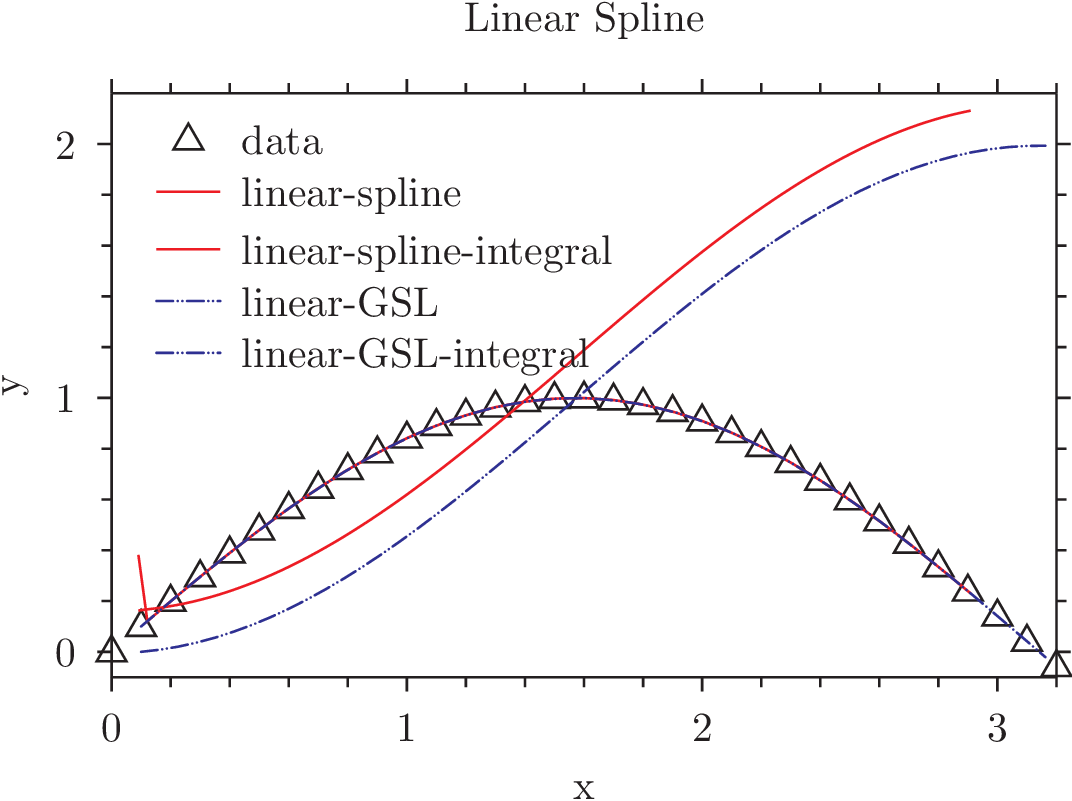
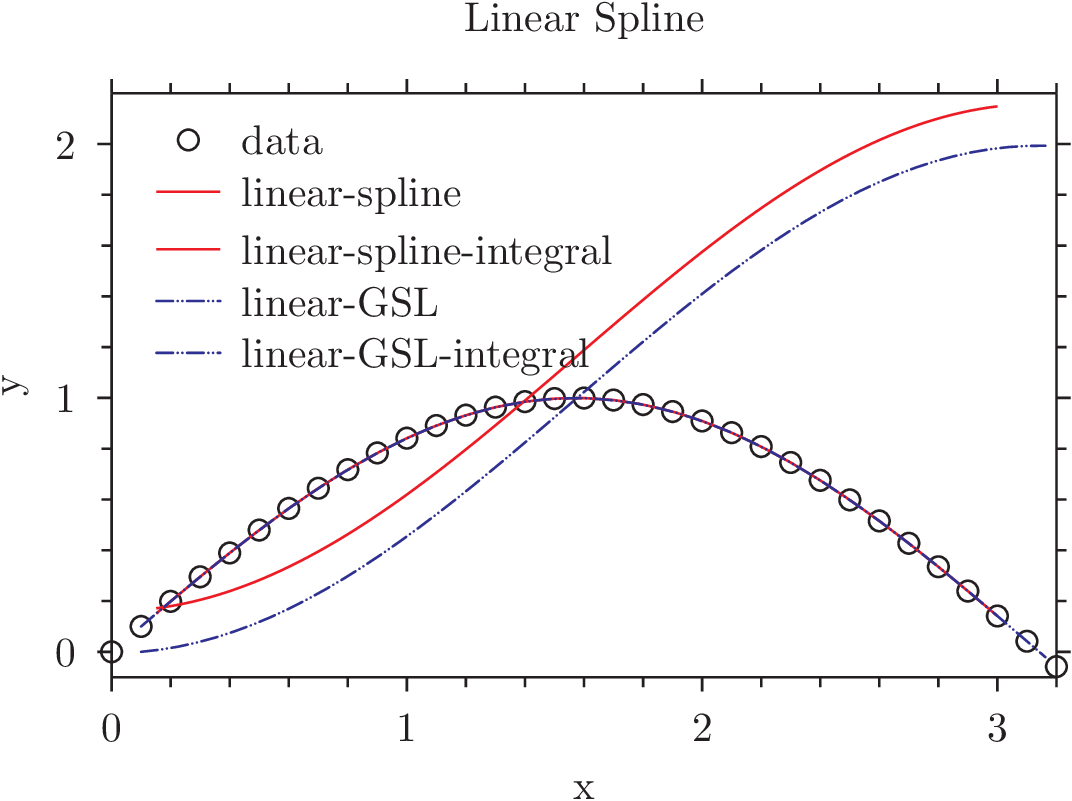
Initial commit

Changed region(s): [[0.2771, 0.4682, 1.0, 0.8427], [0.0924, 0.6242, 0.2771, 0.8427], [0.1539, 0.1561, 0.1847, 0.1873]]

diff --git a/homework/Interpolation1/main.c b/homework/Interpolation1/main.c
@@ -200,9 +200,9 @@ int main(){
 
 
 	//Linspace
-	int N=99; double z[N];
+	int N=100; double z[N];
 	for(i=0;i<N+1;i++){
-	z[i-1]=(double)(2+i)/33;
+	z[i-1]=(double)(4+i)/33;
 	}
 
 	// lin data
